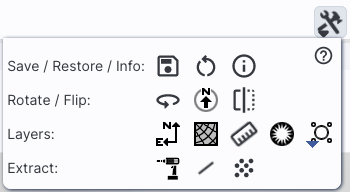
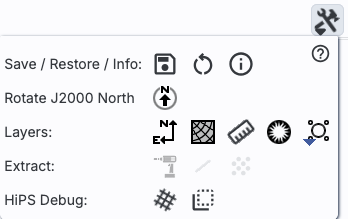
changes for new release

Changed region(s): [[0.0, 0.0, 1.0, 1.0], [0.546, 0.4375, 0.8621, 0.9375], [0.546, 0.25, 0.6322, 0.4062]]

diff --git a/html/firefly/visualization.html b/html/firefly/visualization.html
@@ -38,6 +38,7 @@ in which you might encounter them in the window.<P>
 +<a href="#layers">Image Layers: Viewing/Changing the Layers on the Image</A><br>
 +<a href="#wcs">World Coordinate System (WCS) Alignment</A><br>
 +<a href="#extraction">Extraction Tools</A><br>
++<a href="#hipsdebug">HiPS Debug Tools</A><br>
 +<a href="#selectregion">Region Selection</A><br>
 +<a href="#footprints">Footprints</A><br>
 <P>&nbsp;<P>
@@ -361,6 +362,7 @@ We now discuss each icon in the order in which they appear.<P>
 <em><a href="#rotateImage">jump to rotate</A></em><P>
 <em><a href="#compass">jump to layers</A></em><P>
 <em><a href="#extractshort">jump to extract</A></em><P>
+<em><a href="#hipsdebug">jump to HiPS debug</A></em><P>
 </td></tr></table>
 <p>
 
@@ -564,6 +566,17 @@ in another image to extract points from another image. For more
 information on saving the information, see the <a
 href="#extraction">extraction section below</A>. <P>
 
+<dt><img src="img/hipsgrid.png"> <em>Show the HiPS grid</em>
+<dd>When this tool is activated, the HiPS grid corresponding to your
+current view of a HiPS image is shown.  For more information, see the
+<a href="#hipsdebug">HiPS debug section below</A>. <P>
+
+<dt><img src="img/hipstile.png"> <em>Retrieve the FITS tile </em>
+<dd>When this tool is activated, by clicking on the HiPS image, the
+FITS file corresponding to the HiPS tile is retrieved, if possible. 
+For more information, see the <a href="#hipsdebug">HiPS debug section
+below</A>. <P>
+
 </dl>
 
 <dt><img src="img/zoom.png"> <em>Zoom</em>
@@ -677,6 +690,10 @@ src="img/nancolorpicker.png" style="border:3px solid gray"><P>
 
 <LI> At the bottom, there are sliders controlling the bias and
 contrast. Click or drag the slider to change the image display. <P>
+
+<LI>If you create a 3-color image, the color table pulldown allows you
+to turn individual color planes (red, green, and blue) on and off, and
+also to change the bias and contrast individually for the 3 color planes. <P>
 </UL>
 </td></tr></table>
 
@@ -1263,6 +1280,73 @@ additional pulldown from which you can choose how the pixels are
 combined: average, sum, or even logical "OR", depending on the
 data:<br> <img src="img/extractionadv.png" style="border:3px solid
 gray"><P>
+
+
+&nbsp;<P>
+
+
+<hr width="50%">
+<a name="hipsdebug"><h3>HiPS Debug </h3></A>
+
+These "HiPS Debug" tools are listed near the <a
+href="#extraction">extraction tools</A> because they are in the same
+family as the extraction tools in that they can be used on the image
+to extract additional information. <P>
+
+<a href="images.html#hips">HiPS images</A> are constructed from FITS
+images, and if the metadata are assembled correctly, the HiPS image
+should be able to communicate to this tool where and how to obtain the
+corresponding FITS image. It is complicated, there can be some really
+obvious projection effects, and the phrase "if the metadata are
+assembled correctly" is doing a lot of heavy lifting in that sentence.
+Your mileage may vary. This is why it's called "HiPS Debug." <P>
+
+There are two icons here: 
+<img src="img/hipsgrid.png"> <img src="img/hipstile.png"> <P>
+
+To use these tools in the most efficient method possible, after you
+have loaded a HiPS image, first enable the HiPS grid overlay by
+clicking on the grid icon, which turns on the grid. (This is the same
+grid overlay as <a href="#hipsgrid">here</A>.) If you zoom in and out
+on your loaded HiPS image, the grid will respond and show you the
+corresponding HiPS tiles. When you find a tile you want to retrieve,
+click on the HiPS tile icon. This initiates a tile selection mode. 
+(Note that you have to have selected a HiPS image before you can do
+this.) You get this pop-up window:<br>
+
+<img src="img/hipstileextract.png" style="border:3px solid gray"><P>
+
+You can grab and drag the top of the window to reposition it if need
+be. Then click on the tile you want in the HiPS window and click on
+"Extract Tile" in the pop-up. The corresponding FITS image will appear
+on the right hand side. To select another FITS image, go back to the
+HiPS image and select again. When you're done, close the pop-up or
+click on "End Extraction."<P>
+
+By default, the images should all be <a href="#wcs">WCS-matched</A>,
+e.g., move one and they all should move together.<P>
+
+<strong><font color="orange">&#x26A0;</font>  Tips and
+Troubleshooting:</strong> 
+
+<UL>
+<LI>This is a complex and often confusing process. You will have better
+luck <strong>in all of the issues listed here</strong> by zooming in
+farther on the HiPS images, as far as you can go, before requesting
+the corresponding FITS tiles.
+<LI>Any given HiPS file may not have enough information to go back to
+the constituent FITS images properly. 
+<LI>HiPS tiles are rarely square, but the FITS tiles are pretty much
+always square. The distortions can be super obvious and disconcerting.
+(Ellipsoidal stars! Substantial diamonds rather than squares!)
+Projection effects are real (HiPS are spherical projections), and can
+be worse in some locations.
+<strong>When in doubt, before doing science on the FITS images, go
+back to the original archive and retrieve original FITS
+files.</strong>
+<LI>Positional uncertainties may be large. 
+</UL>
+<P>
 
 
 

diff --git a/html/firefly/spectra.html b/html/firefly/spectra.html
@@ -177,8 +177,16 @@ If you use the plot options (click on the gears <img
 src="img/gears.png" align="center"> icon), you can change the plot
 parameters. It has options similar to what you get for generic
 plotting, but limited as in the above, specifically for plotting
-spectra:<br> <img src="img/overplotparams.png" width="400"
-style="border:3px solid gray"><p>
+spectra. This is how you can, e.g., change colors:<br> 
+<img src="img/overplotparams.png" width="400" style="border:3px solid gray"><p>
+
+<strong><font color="orange">&#x26A0;</font> Tips and Troubleshooting</strong>
+<UL>
+<LI>To quickly limit the plot to just one of the overplotted items, 
+orders in this example above, double-click on the corresponding
+legend. Then the plot will be limited to just that order.
+Double click again to return the plot to its original state.
+</UL>
 
 
 

diff --git a/app/src/toc/firefly_toc.js b/app/src/toc/firefly_toc.js
@@ -430,6 +430,11 @@ const toc_visualization = {
             href: 'firefly/visualization.html#extraction',
         },
         {
+            id: 'visualization.hipsdebug',
+            title: 'HiPS Debug',
+            href: 'firefly/visualization.html#hipsdebug',
+        },
+        {
             id: 'visualization.selectregion',
             title: 'Region Selection',
             href: 'firefly/visualization.html#selectregion',
